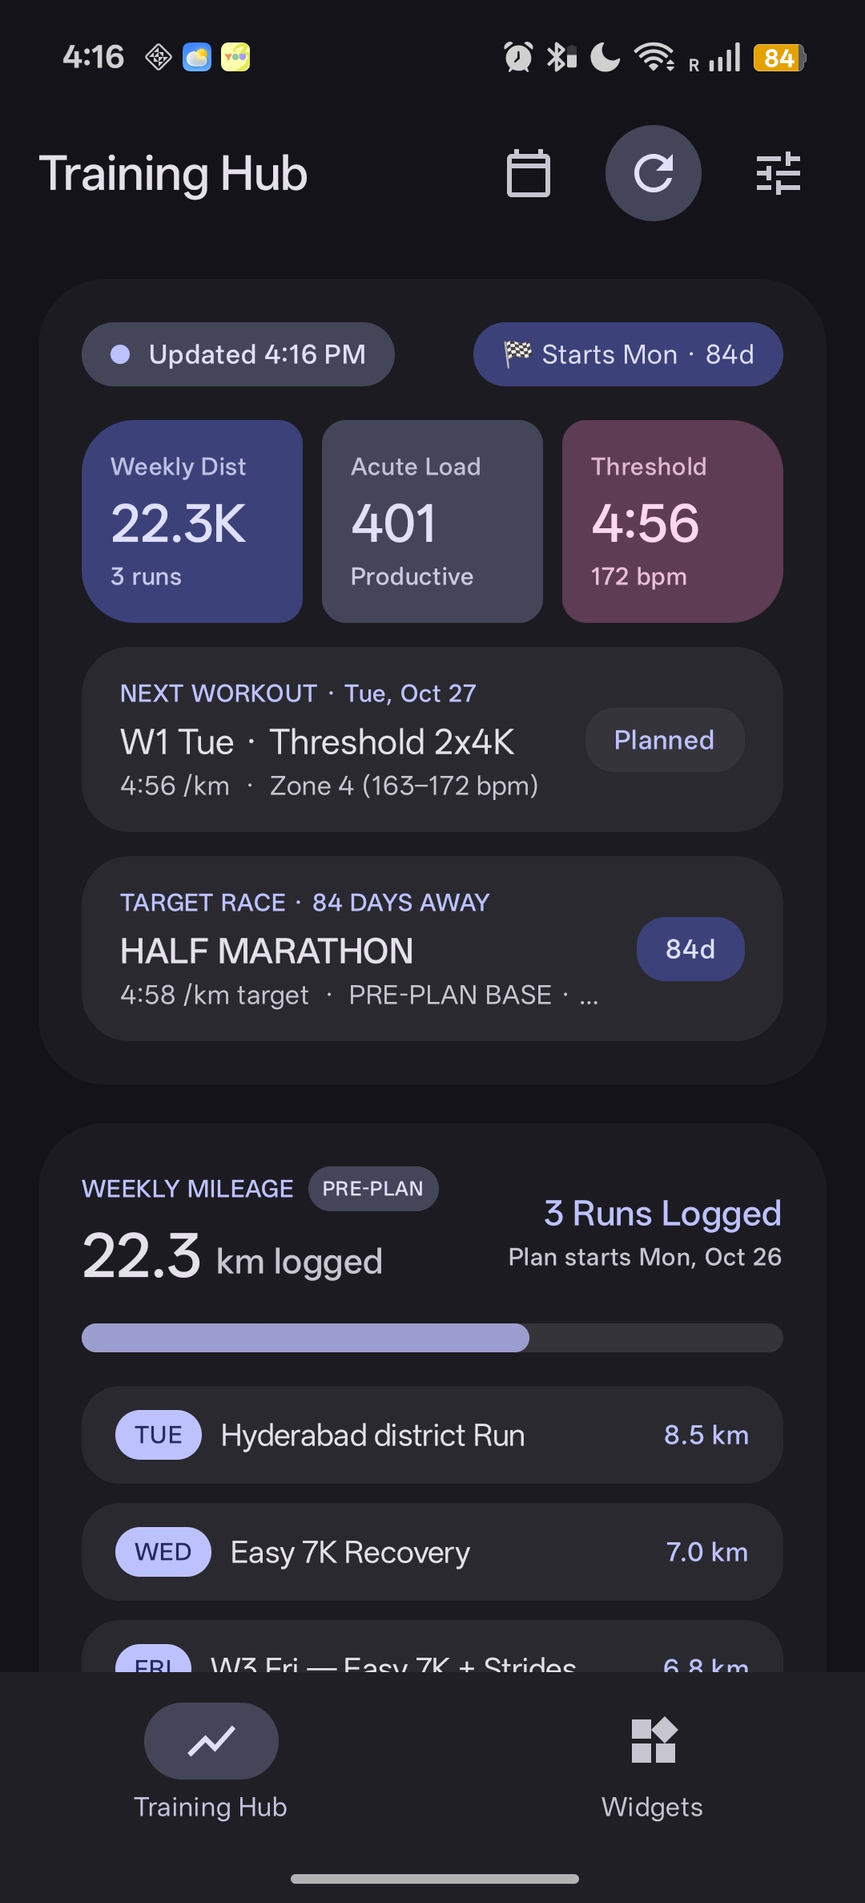
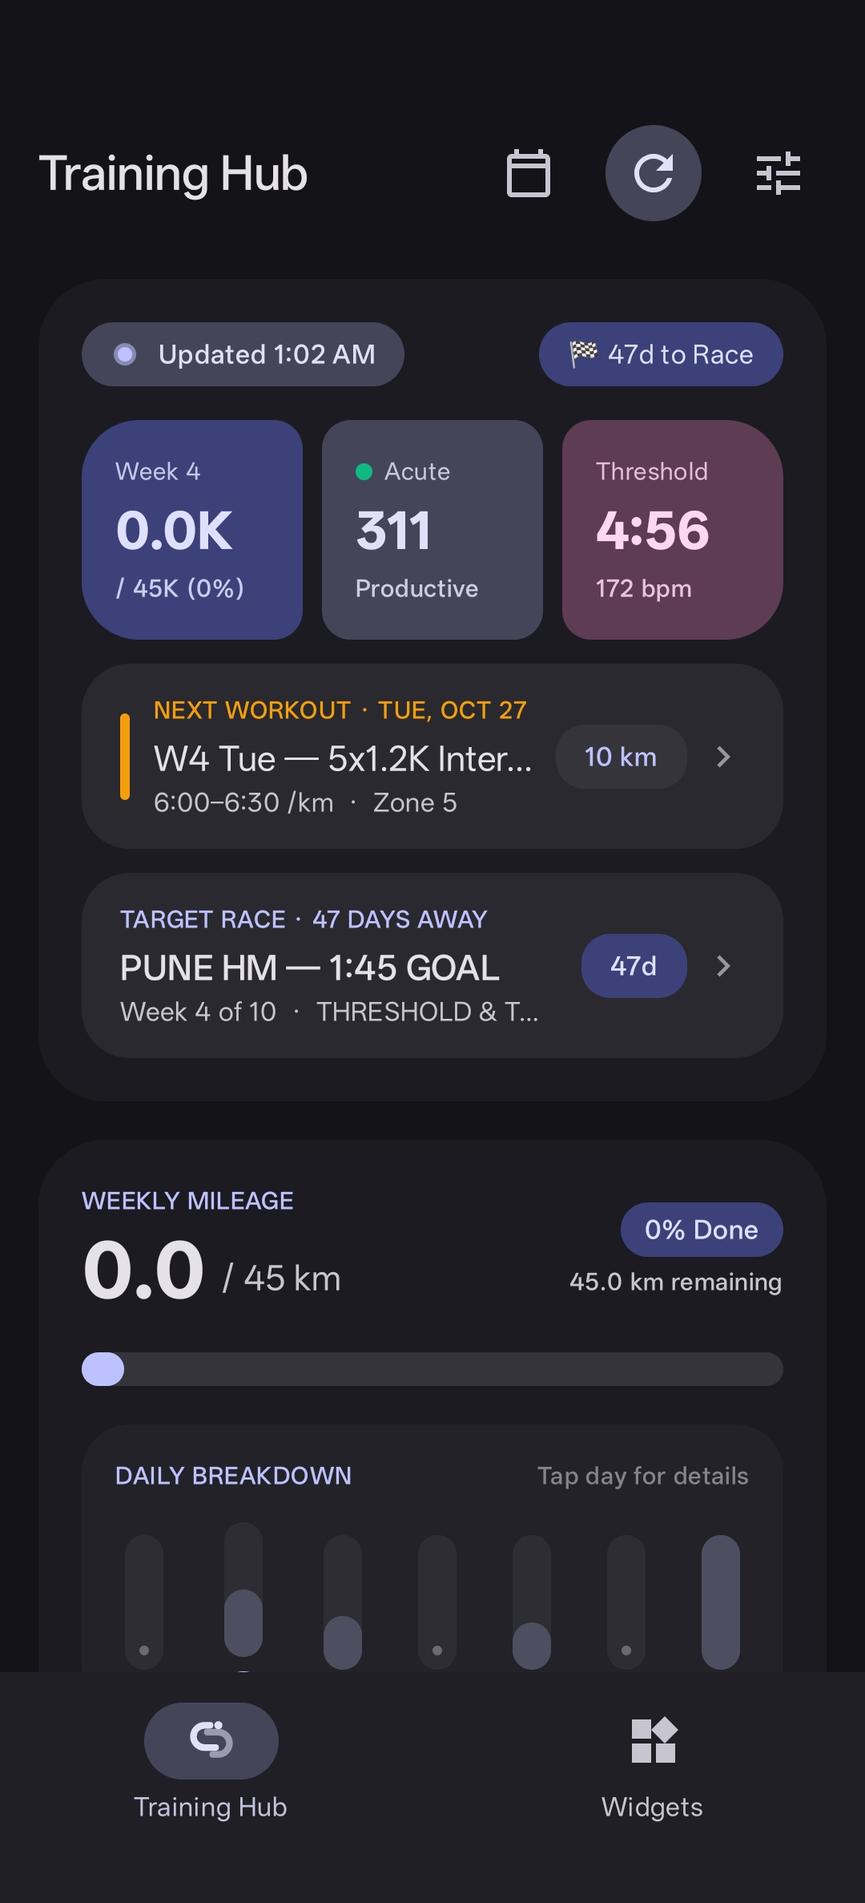
docs: overhaul README with v1.1.0 Material Expressive screenshots and architecture

diff --git a/README.md b/README.md
@@ -1,12 +1,12 @@
 <div align="center">
   <img src="assets/icon.png" width="96" height="96" alt="Laps Logo" />
   <h1>Laps</h1>
-  <p><strong>Open-source Android companion for COROS runners, bringing training metrics & planned workouts to home-screen widgets with local-first data handling.</strong></p>
-  <p>100% on-device. Zero cloud relays, zero tracking, no Google developer console setup.</p>
+  <p><strong>Open-source Android companion for COROS runners, bringing training metrics, periodized race plans & planned workouts to Material 3 Expressive home screen widgets with local-first data handling.</strong></p>
+  <p>100% on-device • Zero cloud relays • Zero telemetry • No Google Cloud console setup</p>
 
   <p>
     <a href="https://github.com/coderang-gk/Laps/actions/workflows/ci.yml"><img src="https://github.com/coderang-gk/Laps/actions/workflows/ci.yml/badge.svg" alt="CI Status" /></a>
-    <a href="https://github.com/coderang-gk/Laps/releases/latest"><img src="https://img.shields.io/github/v/release/coderang-gk/Laps?color=blue&label=Release" alt="Latest Release" /></a>
+    <a href="https://github.com/coderang-gk/Laps/releases/latest"><img src="https://img.shields.io/github/v/release/coderang-gk/Laps?color=blue&label=v1.1.0" alt="Latest Release" /></a>
     <a href="LICENSE"><img src="https://img.shields.io/badge/License-MIT-green.svg" alt="License: MIT" /></a>
   </p>
 
@@ -15,7 +15,8 @@
     <a href="#screenshots">Screenshots</a> •
     <a href="#features">Features</a> •
     <a href="#setup">Setup</a> •
-    <a href="ROADMAP.md">Roadmap</a> •
+    <a href="#architecture">Architecture</a> •
+    <a href="#roadmap">Roadmap</a> •
     <a href="CONTRIBUTING.md">Contributing</a> •
     <a href="SECURITY.md">Security</a>
   </p>
@@ -25,59 +26,46 @@
 
 ## Overview
 
-**Laps** is an open-source, fully self-contained Android client that connects your **COROS Training Hub** account with your on-device **Google Calendar** and delivers 12 dynamic **Material 3 Expressive** home screen widgets.
+**Laps** is an open-source, fully self-contained Android client that connects your **COROS Training Hub** account with your on-device **Device Calendar** and delivers 12 dynamic **Material 3 Expressive** home screen widgets.
 
-Unlike solutions requiring self-hosted Python servers, webhook relays, or Google Cloud OAuth verification consoles, Laps runs **entirely on your phone**:
-- Communicates directly with COROS Training Hub endpoints.
+Unlike solutions requiring self-hosted Python servers, webhook relays, or enterprise Google Cloud OAuth verification consoles, Laps runs **entirely on your phone**:
+- Communicates directly with COROS Training Hub endpoints over encrypted TLS/HTTPS via official OAuth 2.0 or Direct Login.
 - Reads and updates planned runs straight through Android's native `CalendarContract`.
-- Builds periodized 80/20 training schedules and writes workouts to your calendar in one tap.
-- Analyzes training load, fatigue, and missed workouts locally using an EvoLab physiological engine, with optional BYO Gemini AI reasoning.
+- Builds periodized 80/20 training schedules and writes structured intervals to your calendar in one tap.
+- Evaluates acute training load, fatigue, and missed workouts locally using an EvoLab physiological engine, with optional BYO Gemini AI natural language coaching.
 
 ---
 
 ## Screenshots
 
-| <img width="256" src="assets/screenshot_hub.jpg"> | <img width="256" src="assets/screenshot_plan_generator.jpg"> | <img width="256" src="assets/screenshot_race_strategy.jpg"> |
+| <img width="260" src="assets/screenshot_hub.jpg"> | <img width="260" src="assets/screenshot_daily_breakdown.jpg"> | <img width="260" src="assets/screenshot_widgets_homescreen.jpg"> |
 |:---:|:---:|:---:|
-| **Training Hub** | **12-Week Plan Schedule** | **Race Strategy & Roadmap** |
-| <img width="256" src="assets/screenshot_settings.jpg"> | <img width="256" src="assets/screenshot_missed_resolution.jpg"> | <img width="256" src="assets/screenshot_widgets_catalog.jpg"> |
-| **Dedicated Full-Screen Settings** | **Adaptive AI Resolution** | **Material 3 Widgets** |
+| **Training Hub Dashboard** | **Interactive 7-Day Breakdown** | **Sculptural Home Screen Widgets** |
+
+| <img width="260" src="assets/screenshot_plan_schedule.jpg"> | <img width="260" src="assets/screenshot_race_strategy.jpg"> | <img width="260" src="assets/screenshot_widgets_studio.jpg"> |
+|:---:|:---:|:---:|
+| **Multi-Week Schedule Hub** | **Target Race & Strategy Roadmap** | **Widgets Studio & Theme Preview** |
+
+| <img width="260" src="assets/screenshot_settings.jpg"> | <img width="260" src="assets/screenshot_settings_dropdown.jpg"> | <img width="260" src="assets/screenshot_settings_theme.jpg"> |
+|:---:|:---:|:---:|
+| **Full-Screen Settings & Sync** | **Material 3 Region Dropdown** | **Appearance & Gemini AI Key** |
 
 ---
 
 ## Features
 
-### Direct On-Device COROS Integration
-- **Direct HTTPS Authentication**: Connects directly and securely with official COROS Training Hub endpoints (`teamapi.coros.com`) strictly on-device. Zero middleman cloud relays, zero external telemetry.
-- **Why Direct Auth?**: COROS does not currently offer a public consumer OAuth 2.0 portal for independent mobile applications (its enterprise Partner API and MCP OAuth server enforce HTTPS redirect URIs and pre-registered enterprise client credentials). Laps handles all authentication directly from your device, storing credentials exclusively in Android's private sandbox.
-- **Advanced Token Support**: Developers who maintain an active COROS Model Context Protocol (MCP) Bearer token can optionally authenticate via raw token.
-- Fetches real-time workout telemetry: distance, pace, elevation, cadence, training load, aerobic/anaerobic TE, and heart rate.
-- Synchronizes EvoLab metrics: Marathon Level, Lactate Threshold Pace & HR, Running Fitness, Fatigue, and Load Impact.
-
-### Zero-Setup Google Calendar Sync
-- Uses Android's built-in `CalendarContract` provider.
-- No `credentials.json`, service accounts, or Google Cloud OAuth verification screens needed.
-- Reads upcoming scheduled workouts from any local or Google calendar on your device.
-- Directly updates event titles and timestamps when workouts are completed, shifted, or skipped.
-
-### 80/20 Periodized Plan & Race Hub
-- **Interactive Multi-Week Schedule**: Tapping **Next Workout** opens a full 10–16 week collapsible calendar schedule with current week expanded, detailed workout splits (Threshold, Recovery Easy, Strides, Sunday Long Runs), and race-day highlights.
-- **Race Strategy & Roadmap**: Tapping **Target Race** surfaces readiness analytics: days remaining countdown, COROS EvoLab readiness status, goal finish pace vs. current lactate threshold pace delta, and periodization macrocycle phases (Aerobic Base, Threshold Overload, Peak Taper).
-- **Custom Event Naming & Distance Presets**: Custom race branding (e.g. *Hyderabad HM*, *Mumbai Marathon*), distances (**5K**, **10K**, **Half Marathon**, **Marathon**), and duration chips (6w to 16w).
-- **One-Tap Calendar Publishing**: Direct calendar generation writing structured intervals with target pace and heart rate zones directly to Android's native `CalendarContract`.
-
-### Dynamic Missed-Workout Resolution (Adaptive AI Coaching)
-- When a scheduled training run is missed, Laps evaluates your 7-day acute training load, upcoming key sessions, and threshold pace.
-- **Adaptive Coach Decision Engine**:
-  - **Drop / Skip Flow**: Prevents dangerous training load stacking by marking the missed run `[SKIPPED]` directly in Google Calendar, maintaining the weekly 80/20 polarization without cramming.
-  - **Shift Flow**: Pushes quality workouts to upcoming rest days while intelligently rewriting calendar event titles (`W3 Tue` $\rightarrow$ `W3 Wed`) and preserving scheduled start times (e.g., 6:30 AM).
-  - **Long Run Protection Heuristics**: If the athlete's acute training load is elevated or a key Long Run is scheduled within 48 hours, the coach automatically flags a high-priority `[AI RECOMMENDED]` decision to drop intensity or convert it into a light shakeout rather than doubling up on fatigue.
-- **Dual Reasoning Engine**: Powered offline by the built-in EvoLab physiological heuristics, with optional BYO **Gemini AI Coach** integration for personalized natural language recovery commentary.
+### Material 3 Expressive Experience
+- **Interactive 7-Day Daily Breakdown**: Tactile bar chart with spring physics (`dampingRatio = 0.72f`, `stiffness = 450f`). Tap any day of the week to smoothly expand session details, completed/planned distances, and workout type badges.
+- **Pulsating Live Sync Aura**: Micro-animated glowing aura indicator on the sync status badge during background and active syncs.
+- **Dynamic Metric Pods**: Sculptural cards with high-contrast color indicators for Acute Load (Productive/Optimal), Threshold Pace, and Weekly Target Progress.
+- **Bespoke Dock Branding**: The bottom navigation dock features the signature **Laps running track oval and pacer dot**, styled with Material 3 active pill containers and layered alpha depth.
+- **Fluid App Navigation**: Seamless `AnimatedContent` slide-and-fade physics between screens and tabs.
 
 ### 12 Material 3 Expressive Home Screen Widgets
 - Pure Material You dynamic theming (Android 12+ / API 31+): dynamically adopts your wallpaper's system accent colors across all app surfaces and widgets with seamless dark/light mode switching.
 - Sculptural and geometric forms drawn with `androidx.graphics:graphics-shapes` (concentric dials, Cookie-12 scallops, contrast pods, split horizons).
-- Six widget slots, each supporting multiple interchangeable styles:
+- **Widgets Studio**: Live interactive studio featuring an instant **Auto**, **Light**, or **Dark** mode switcher and `ACTIVE` pill indicators to preview all 12 widgets before placing them on your launcher.
+- Six widget categories, each supporting multiple interchangeable styles:
   1. **Weekly Mileage**: Mileage progress, remaining target, and Zone 2 distribution.
   2. **Training Load**: Fatigue index, base fitness, and readiness status.
   3. **Next Workout**: Distance, workout type, target pace, and HR zone.
@@ -85,18 +73,47 @@ Unlike solutions requiring self-hosted Python servers, webhook relays, or Google
   5. **Race Countdown**: Days remaining, goal time, and target race pace.
   6. **Command Center**: Comprehensive athlete overview with multi-day schedule.
 
+### Direct On-Device COROS Integration
+- **OAuth 2.0 & Direct HTTPS**: Connect securely via official COROS OAuth using Chrome Custom Tabs and PKCE callback (`laps://auth/callback`), or via direct on-device credentials.
+- **Material 3 Region Dropdown**: Elevated selector supporting all global COROS server clusters: **Global / US**, **Europe**, **Singapore / Asia**, and **China**.
+- **Privacy-First**: Credentials, tokens, and telemetry stay strictly in Android's private app sandbox. Zero middleman cloud relays, zero external telemetry.
+- Fetches real-time workout telemetry: distance, pace, elevation, cadence, training load, aerobic/anaerobic TE, and heart rate.
+- Synchronizes EvoLab metrics: Marathon Level, Lactate Threshold Pace & HR, Running Fitness, Fatigue, and Load Impact.
+
+### Zero-Setup Calendar Sync
+- Uses Android's built-in `CalendarContract` provider.
+- No `credentials.json`, service accounts, or Google Cloud OAuth verification screens needed.
+- Reads upcoming scheduled workouts from any local or Google calendar on your device.
+- Directly updates event titles and timestamps when workouts are completed, shifted, or skipped.
+
+### 80/20 Periodized Plan & Race Hub
+- **Swipeable Horizontal Pager**: Fluidly swipe horizontally between **Schedule**, **Race Strategy**, and **Customizer**, fully synchronized with the primary tab row and floating action button.
+- **Multi-Week Collapsible Accordion**: Full 10–16 week calendar schedule with current week expanded, workout splits (Threshold, Recovery Easy, Strides, Sunday Long Runs), and race-week highlights.
+- **Race Strategy & Roadmap**: Surfaces readiness analytics: days remaining countdown, COROS EvoLab readiness status, goal finish pace vs. current lactate threshold pace delta, and periodization macrocycle phases (Aerobic Base, Threshold Overload, Peak Taper).
+- **Custom Event Naming & Distance Presets**: Custom race branding (e.g. *Pune HM*, *Hyderabad Marathon*), distances (**5K**, **10K**, **Half Marathon**, **Marathon**), and duration chips (6w to 16w).
+- **Generous Bottom Clearance**: Built-in `96.dp` clearance so the Extended FAB never covers race-day fueling notes or the final week's workouts.
+
+### Dynamic Missed-Workout Resolution (Adaptive AI Coaching)
+- When a scheduled training run is missed, Laps evaluates your 7-day acute training load, upcoming key sessions, and threshold pace.
+- **Adaptive Decision Engine**:
+  - **Drop / Skip Flow**: Prevents dangerous training load stacking by marking the missed run `[SKIPPED]` directly in your calendar, maintaining weekly 80/20 polarization without cramming.
+  - **Shift Flow**: Pushes quality workouts to upcoming rest days while intelligently rewriting calendar event titles (`W3 Tue` $\rightarrow$ `W3 Wed`) and preserving scheduled start times (e.g., 6:30 AM).
+  - **Long Run Protection Heuristics**: If the athlete's acute training load is elevated or a key Long Run is scheduled within 48 hours, the coach automatically flags a high-priority `[AI RECOMMENDED]` decision to drop intensity or convert it into a light shakeout rather than doubling up on fatigue.
+- **Dual Reasoning Engine**: Powered offline by built-in EvoLab physiological heuristics, with optional BYO **Gemini AI Coach** (`gemini-2.5-flash`) integration for personalized natural language recovery commentary.
+
 ---
 
 ## Setup
 
-1. **Download & Install**: Grab the signed APK from the [Releases](https://github.com/coderang-gk/Laps/releases) page.
[1 lines of base64/hex data omitted]
+1. **Download & Install**: Grab the signed release APK from the [Releases](https://github.com/coderang-gk/Laps/releases) page.
+   - **File**: `Laps-v1.1.0.apk`
[1 lines of base64/hex data omitted]
 2. **Permissions**: Grant Calendar (optional) and Notification permissions when prompted so Laps can read your training schedule and update completed runs.
-3. **Connect Account**: Open **Settings** and connect via **Direct Login** (or paste an optional MCP Bearer token).
+3. **Connect Account**: Open **Settings** and connect via **OAuth** (or Direct Login). Select your COROS server region.
 4. **Choose Mode**:
-   - **Metrics Only (Default)**: Keep calendar set to *"None (Metrics Only)"* to use Laps purely for glanceable home screen widgets without phantom targets or ghost denominators. Calendar publishing is safely locked.
-   - **Training Plan Mode**: Select your Google Calendar if you wish to generate 80/20 structured workout plans and track upcoming runs.
-5. **(Optional) Gemini Key**: If you wish to enable extended AI coaching commentary on missed runs, paste your Gemini API key in Settings.
+   - **Metrics Only (Default)**: Keep calendar set to *"None (Metrics Only)"* to use Laps purely for glanceable home screen widgets without phantom targets or ghost denominators.
+   - **Training Plan Mode**: Select your Device Calendar to generate 80/20 structured workout plans and track upcoming runs.
+5. **(Optional) Gemini Key**: To enable natural language AI coaching commentary on missed runs, paste your Gemini API key in Settings.
 
 ---
 
@@ -105,14 +122,14 @@ Unlike solutions requiring self-hosted Python servers, webhook relays, or Google
 ```
 io.github.coderang.laps/
 ├── calendar/             # Native Android CalendarContract query, insert, shift, skip & PlanGenerator
-├── coach/                # EvoLab physiological heuristics & Gemini AI reasoning
-├── coros/                # COROS API client (OAuth 2.0 / MCP tokens + direct HTTPS sync)
+├── coach/                # EvoLab physiological heuristics & Gemini AI reasoning (gemini-2.5-flash)
+├── coros/                # COROS API client (OAuth 2.0 PKCE + direct HTTPS sync)
 ├── data/                 # Domain models (Athlete, Workout, EvoLab, Widgets) & SharedPreferences
 ├── notifications/        # Local Android post-run notifications
-├── sync/                 # WorkManager autonomous 3-hour background sync worker
-├── ui/                   # Material 3 slate-indigo / Material You palette & Canvas renderer
-├── widgets/              # AppWidgetProviders for the 6 home screen slots
-└── MainActivity.kt       # Training Hub, Widget Catalog, and Settings UI
+├── sync/                 # WorkManager autonomous background sync worker
+├── ui/                   # Material 3 Expressive theme, spring physics, and canvas renderers
+├── widgets/              # AppWidgetProviders for the 12 home screen widget styles
+└── MainActivity.kt       # Training Hub, Widgets Studio, Plan Race Hub, and Settings UI
 ```
 
 ---
@@ -122,21 +139,21 @@ io.github.coderang.laps/
 Requirements:
 - Android Studio Ladybug or newer
 - JDK 21+
-- Android SDK 36 (Min SDK 31)
+- Android SDK 35 (Min SDK 26)
 
 ```bash
 git clone https://github.com/coderang-gk/Laps.git
 cd Laps
-./gradlew assembleDebug
+./gradlew assembleRelease
 ```
 
-The resulting APK will be located at `app/build/outputs/apk/debug/app-debug.apk`.
+The resulting release APK will be located at `app/build/outputs/apk/release/app-release.apk` (or `release/Laps-v1.1.0.apk`).
 
 ---
 
 ## Testing & Reliability
 
-Laps adopts a robust hermetic testing architecture. All business logic, EvoLab physiological heuristics, 80/20 plan generation, COROS client auth, and calendar operations run on pure JVM with zero device emulator requirements using in-memory fakes (`FakeCalendarStore`):
+Laps adopts a hermetic testing architecture. All business logic, EvoLab physiological heuristics, 80/20 plan generation, COROS client auth, and calendar operations run on pure JVM with zero device emulator requirements using in-memory fakes:
 
 ```bash
 ./gradlew test
@@ -144,11 +161,11 @@ Laps adopts a robust hermetic testing architecture. All business logic, EvoLab p
 
 - **Execution Speed**: **32 unit tests** execute in **<500ms** on pure JVM.
 - **Test Matrix**:
-  - `CalendarSyncManagerTest` (6 tests): Skip flow (`[SKIPPED]` title tagging), Shift flow (automatic DOW title rewrite e.g. `W3 Tue` $\rightarrow$ `W3 Wed` and scheduled time preservation), metadata regex parsing.
-  - `CorosApiClientTest` (10 tests): MockWebServer hermetic HTTP verification, direct HTTPS login, Bearer token auth, expired token failure handling, unauthenticated error rejection, defensive activity & detail model defaults.
-  - `EvoLabAnalyzerTest` (5 tests): High-intensity exhaustion heuristics, key Long Run protection, threshold swapping, aerobic base absorption, on-device workout analysis.
-  - `LapsDataModelsTest` (4 tests): Default sample validation, weekly mileage completion ratios, EvoLab productive status, 80/20 polarization integrity.
-  - `PlanGeneratorTest` (3 tests): 80/20 Half-Marathon (40 workouts), Marathon progressive overload generation, and defensive calendar isolation when no calendar is targeted.
+  - `CalendarSyncManagerTest`: Skip flow (`[SKIPPED]` tagging), Shift flow (automatic DOW title rewrites and time preservation), metadata regex parsing.
+  - `CorosApiClientTest`: MockWebServer hermetic HTTP verification, direct HTTPS login, Bearer token auth, expired token failure handling, unauthenticated error rejection.
+  - `EvoLabAnalyzerTest`: High-intensity exhaustion heuristics, key Long Run protection, threshold swapping, aerobic base absorption, on-device workout analysis.
+  - `LapsDataModelsTest`: Sample validation, weekly mileage completion ratios, EvoLab productive status, 80/20 polarization integrity.
+  - `PlanGeneratorTest`: 80/20 Half-Marathon (40 workouts) and Marathon progressive overload generation.
 
 ---
 
@@ -156,7 +173,7 @@ Laps adopts a robust hermetic testing architecture. All business logic, EvoLab p
 
 - **Zero Cloud Intermediaries**: Laps has zero analytics trackers, zero advertising SDKs, and zero telemetry relays. All network requests originate directly from your phone to official COROS endpoints over encrypted TLS/HTTPS.
 - **Local On-Device Sandboxing**: All session tokens and credentials are stored exclusively in Android private app storage (`MODE_PRIVATE`). No third-party app on your device can access Laps's private files.
-- **One-Tap Atomic Sign-Out**: Tapping **Clear Credentials / Sign Out** in Settings instantly purges all tokens, passwords, Gemini keys, and cached training metrics from disk and memory.
+- **One-Tap Atomic Sign-Out**: Tapping **Sign Out & Reset to Sample Data** in Settings instantly purges all tokens, credentials, Gemini keys, and cached training metrics from disk and memory.
 
 ---
 
@@ -166,8 +183,8 @@ Laps adopts a robust hermetic testing architecture. All business logic, EvoLab p
 > **Independent Project**: Laps is an independent, community-developed open-source project. It is **not** affiliated with, authorized, maintained, or endorsed by COROS Wearables Inc. or Google LLC.
 
 * **API Stability**: Because COROS does not provide a public, documented consumer REST API or self-serve OAuth portal for third-party mobile applications, Laps interacts directly with official Training Hub endpoints on-device. Upstream endpoint changes by COROS could disrupt synchronization.
-* **Local Storage Disclosure**: While Android's private app sandbox protects credentials via Linux UID separation, no local storage mechanism is completely impervious to physical access on rooted or compromised devices. Avoid using the app on rooted phones with insecure superuser configurations.
-* **Android Battery Optimization Policies**: Many device manufacturers (Samsung One UI, Xiaomi HyperOS, OnePlus OxygenOS) aggressively terminate background workers to save battery. For uninterrupted 3-hour widget updates, set Laps battery usage to **Unrestricted** in Android *App Info > Battery*.
+* **Local Storage Disclosure**: While Android's private app sandbox protects credentials via Linux UID separation, no local storage mechanism is completely impervious to physical access on rooted or compromised devices. Avoid using the app on rooted devices with insecure superuser configurations.
+* **Android Battery Optimization Policies**: Many device manufacturers aggressively terminate background workers to save battery. For uninterrupted background widget updates, set Laps battery usage to **Unrestricted** in Android *App Info > Battery*.
 
 ---
 
@@ -176,8 +193,15 @@ Laps adopts a robust hermetic testing architecture. All business logic, EvoLab p
 - [x] Autonomous silent background sync via Android `WorkManager` (v1.0)
 - [x] Adaptive Missed-Workout Resolution (Skip & Shift heuristics with Google Calendar title rewrites) (v1.0)
 - [x] First-class Metrics Only mode (Widgets without mandatory calendar training plans) (v1.0)
-- [ ] Direct-to-Watch structured workout push via COROS Partner API / MCP write tools (v1.1)
-- [ ] IzzyOnDroid & F-Droid repository distribution (v1.1)
+- [x] Official In-App OAuth 2.0 PKCE authentication (v1.0.2)
+- [x] Material 3 Expressive Dashboard with interactive 7-day spring breakdown (v1.1)
+- [x] Reimagined Widgets Studio with live Auto/Light/Dark theme preview (v1.1)
+- [x] Swipeable Plan Race Hub with `HorizontalPager` & ergonomic FAB clearance (v1.1)
+- [x] Material 3 Server Region dropdown & bespoke Laps dock branding (v1.1)
+- [ ] Adaptive Volume Trimming & Weekly AI Athletic Debriefs (v1.2)
+- [ ] Deeper Activity Splits, Cadence & Heart Rate Zone Analytics (v1.2)
+- [ ] Direct BLE Watch Connection for local workout push & file sync (v1.3)
+- [ ] Material Expressive & Pixel Watch inspired Custom Watch Face Studio for COROS watches (v1.3)
 
 ---
 
